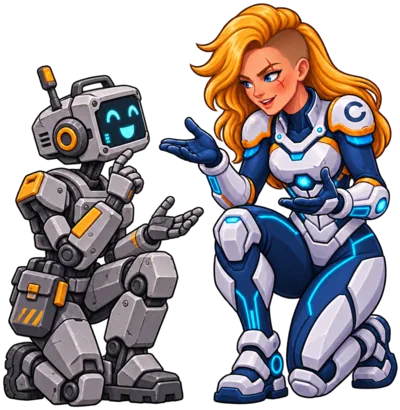
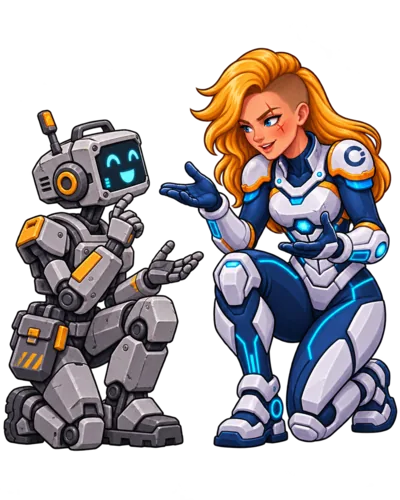
Add embedding and re-ranking models

diff --git a/fr/models.html b/fr/models.html
@@ -331,11 +331,32 @@
                   <th scope="row" role="rowheader">Ministral 3 14B</th>
                   <td role="cell">100k</td><td role="cell">0,336</td><td role="cell">0,448</td>
                 </tr>
+                <tr role="row">
+                  <th scope="row" role="rowheader">Qwen3 Embedding 8B</th>
+                  <td role="cell">8k</td><td role="cell">0,0784</td><td role="cell">–</td>
+                </tr>
+                <tr role="row">
+                  <th scope="row" role="rowheader">BGE Multilingual Gemma2</th>
+                  <td role="cell">8k</td><td role="cell">0,0728</td><td role="cell">–</td>
+                </tr>
+                <tr role="row">
+                  <th scope="row" role="rowheader">all-MiniLM-L12-v2</th>
+                  <td role="cell">128</td><td role="cell">0,01</td><td role="cell">–</td>
+                </tr>
+                <tr role="row">
+                  <th scope="row" role="rowheader">BGE Reranker v2 M3</th>
+                  <td role="cell">8k</td><td role="cell">0,0112</td><td role="cell">–</td>
+                </tr>
+                <tr role="row">
+                  <th scope="row" role="rowheader">Qwen3 Reranker 0.6B</th>
+                  <td role="cell">33k</td><td role="cell">0,01008</td><td role="cell">–</td>
+                </tr>
               </tbody>
             </table>
           </div>
           <p class="note">
-            CHF par million de tokens.
+            CHF par million de tokens. Un modèle d'embedding ou de reranking ne
+            génère pas de texte, il n'a donc pas de prix de sortie.
           </p>
         </div>
       </section>

diff --git a/models.html b/models.html
@@ -323,11 +323,32 @@
                   <th scope="row" role="rowheader">Ministral 3 14B</th>
                   <td role="cell">100k</td><td role="cell">0.336</td><td role="cell">0.448</td>
                 </tr>
+                <tr role="row">
+                  <th scope="row" role="rowheader">Qwen3 Embedding 8B</th>
+                  <td role="cell">8k</td><td role="cell">0.0784</td><td role="cell">–</td>
+                </tr>
+                <tr role="row">
+                  <th scope="row" role="rowheader">BGE Multilingual Gemma2</th>
+                  <td role="cell">8k</td><td role="cell">0.0728</td><td role="cell">–</td>
+                </tr>
+                <tr role="row">
+                  <th scope="row" role="rowheader">all-MiniLM-L12-v2</th>
+                  <td role="cell">128</td><td role="cell">0.01</td><td role="cell">–</td>
+                </tr>
+                <tr role="row">
+                  <th scope="row" role="rowheader">BGE Reranker v2 M3</th>
+                  <td role="cell">8k</td><td role="cell">0.0112</td><td role="cell">–</td>
+                </tr>
+                <tr role="row">
+                  <th scope="row" role="rowheader">Qwen3 Reranker 0.6B</th>
+                  <td role="cell">33k</td><td role="cell">0.01008</td><td role="cell">–</td>
+                </tr>
               </tbody>
             </table>
           </div>
           <p class="note">
-            CHF pro Million Tokens.
+            CHF pro Million Tokens. Ein Embedding- oder Reranking-Modell schreibt
+            keinen Text und hat darum keinen Output-Preis.
           </p>
         </div>
       </section>

diff --git a/en/models.html b/en/models.html
@@ -330,11 +330,32 @@
                   <th scope="row" role="rowheader">Ministral 3 14B</th>
                   <td role="cell">100k</td><td role="cell">0.336</td><td role="cell">0.448</td>
                 </tr>
+                <tr role="row">
+                  <th scope="row" role="rowheader">Qwen3 Embedding 8B</th>
+                  <td role="cell">8k</td><td role="cell">0.0784</td><td role="cell">–</td>
+                </tr>
+                <tr role="row">
+                  <th scope="row" role="rowheader">BGE Multilingual Gemma2</th>
+                  <td role="cell">8k</td><td role="cell">0.0728</td><td role="cell">–</td>
+                </tr>
+                <tr role="row">
+                  <th scope="row" role="rowheader">all-MiniLM-L12-v2</th>
+                  <td role="cell">128</td><td role="cell">0.01</td><td role="cell">–</td>
+                </tr>
+                <tr role="row">
+                  <th scope="row" role="rowheader">BGE Reranker v2 M3</th>
+                  <td role="cell">8k</td><td role="cell">0.0112</td><td role="cell">–</td>
+                </tr>
+                <tr role="row">
+                  <th scope="row" role="rowheader">Qwen3 Reranker 0.6B</th>
+                  <td role="cell">33k</td><td role="cell">0.01008</td><td role="cell">–</td>
+                </tr>
               </tbody>
             </table>
           </div>
           <p class="note">
-            CHF per million tokens.
+            CHF per million tokens. An embedding or reranking model writes no
+            text, so it has no output price.
           </p>
         </div>
       </section>

diff --git a/fr/agents.html b/fr/agents.html
@@ -250,8 +250,8 @@
               srcset="../assets/img/keera-talking-with-a-robot-400.webp 400w, ../assets/img/keera-talking-with-a-robot-640.webp 640w, ../assets/img/keera-talking-with-a-robot.webp 750w"
               sizes="(max-width: 780px) min(360px, 100vw - 40px), min(395px, 38vw)"
               width="750"
-              height="769"
-              alt="Keera agenouillée près d'un petit robot, lui expliquant quelque chose les mains ouvertes"
+              height="937"
+              alt="Keera agenouillée face à un robot, lui expliquant quelque chose les mains ouvertes&nbsp;; le robot écoute en souriant, une main au menton"
               fetchpriority="high"
               decoding="async"
             />

diff --git a/en/agents.html b/en/agents.html
@@ -249,8 +249,8 @@
               srcset="../assets/img/keera-talking-with-a-robot-400.webp 400w, ../assets/img/keera-talking-with-a-robot-640.webp 640w, ../assets/img/keera-talking-with-a-robot.webp 750w"
               sizes="(max-width: 780px) min(360px, 100vw - 40px), min(395px, 38vw)"
               width="750"
-              height="769"
-              alt="Keera kneeling beside a small robot and explaining something with open hands"
+              height="937"
+              alt="Keera kneeling in front of a robot and explaining something with open hands; the robot listens with a smile, one hand at its chin"
               fetchpriority="high"
               decoding="async"
             />

diff --git a/agents.html b/agents.html
@@ -250,8 +250,8 @@
               srcset="assets/img/keera-talking-with-a-robot-400.webp 400w, assets/img/keera-talking-with-a-robot-640.webp 640w, assets/img/keera-talking-with-a-robot.webp 750w"
               sizes="(max-width: 780px) min(360px, 100vw - 40px), min(395px, 38vw)"
               width="750"
-              height="769"
-              alt="Keera kniet neben einem kleinen Roboter und erklärt ihm etwas mit offenen Händen"
+              height="937"
+              alt="Keera kniet vor einem Roboter und erklärt ihm etwas mit offenen Händen; der Roboter hört lächelnd zu, eine Hand am Kinn"
               fetchpriority="high"
               decoding="async"
             />

diff --git a/index.html b/index.html
@@ -188,7 +188,7 @@
       <section class="hero hero--split">
         <div class="wrap">
           <div>
-            <h1>Die souveräne KI-Plattform für die Schweiz.</h1>
+            <h1>Die souveräne Schweizer KI-Plattform.</h1>
             <p class="lede">
               Gebaut für Schweizer Unternehmen und die öffentliche Hand. Chat,
               Agenten und Inferenz inklusive, dazu Open-Weight-Modelle aus der

diff --git a/fr/index.html b/fr/index.html
@@ -191,7 +191,7 @@
       <section class="hero hero--split">
         <div class="wrap">
           <div>
-            <h1>La plateforme d'IA souveraine pour la Suisse.</h1>
+            <h1>La plateforme d'IA souveraine suisse.</h1>
             <p class="lede">
               Conçue pour les entreprises et les organisations publiques
               suisses. Chat, agents et inférence inclus, avec des modèles à

diff --git a/en/index.html b/en/index.html
@@ -195,7 +195,7 @@
       <section class="hero hero--split">
         <div class="wrap">
           <div>
-            <h1>The sovereign AI platform for Switzerland.</h1>
+            <h1>The sovereign Swiss AI platform.</h1>
             <p class="lede">
               Built for Swiss companies and public organisations. Chat, agents
               and inference included, with open-weight models hosted in
